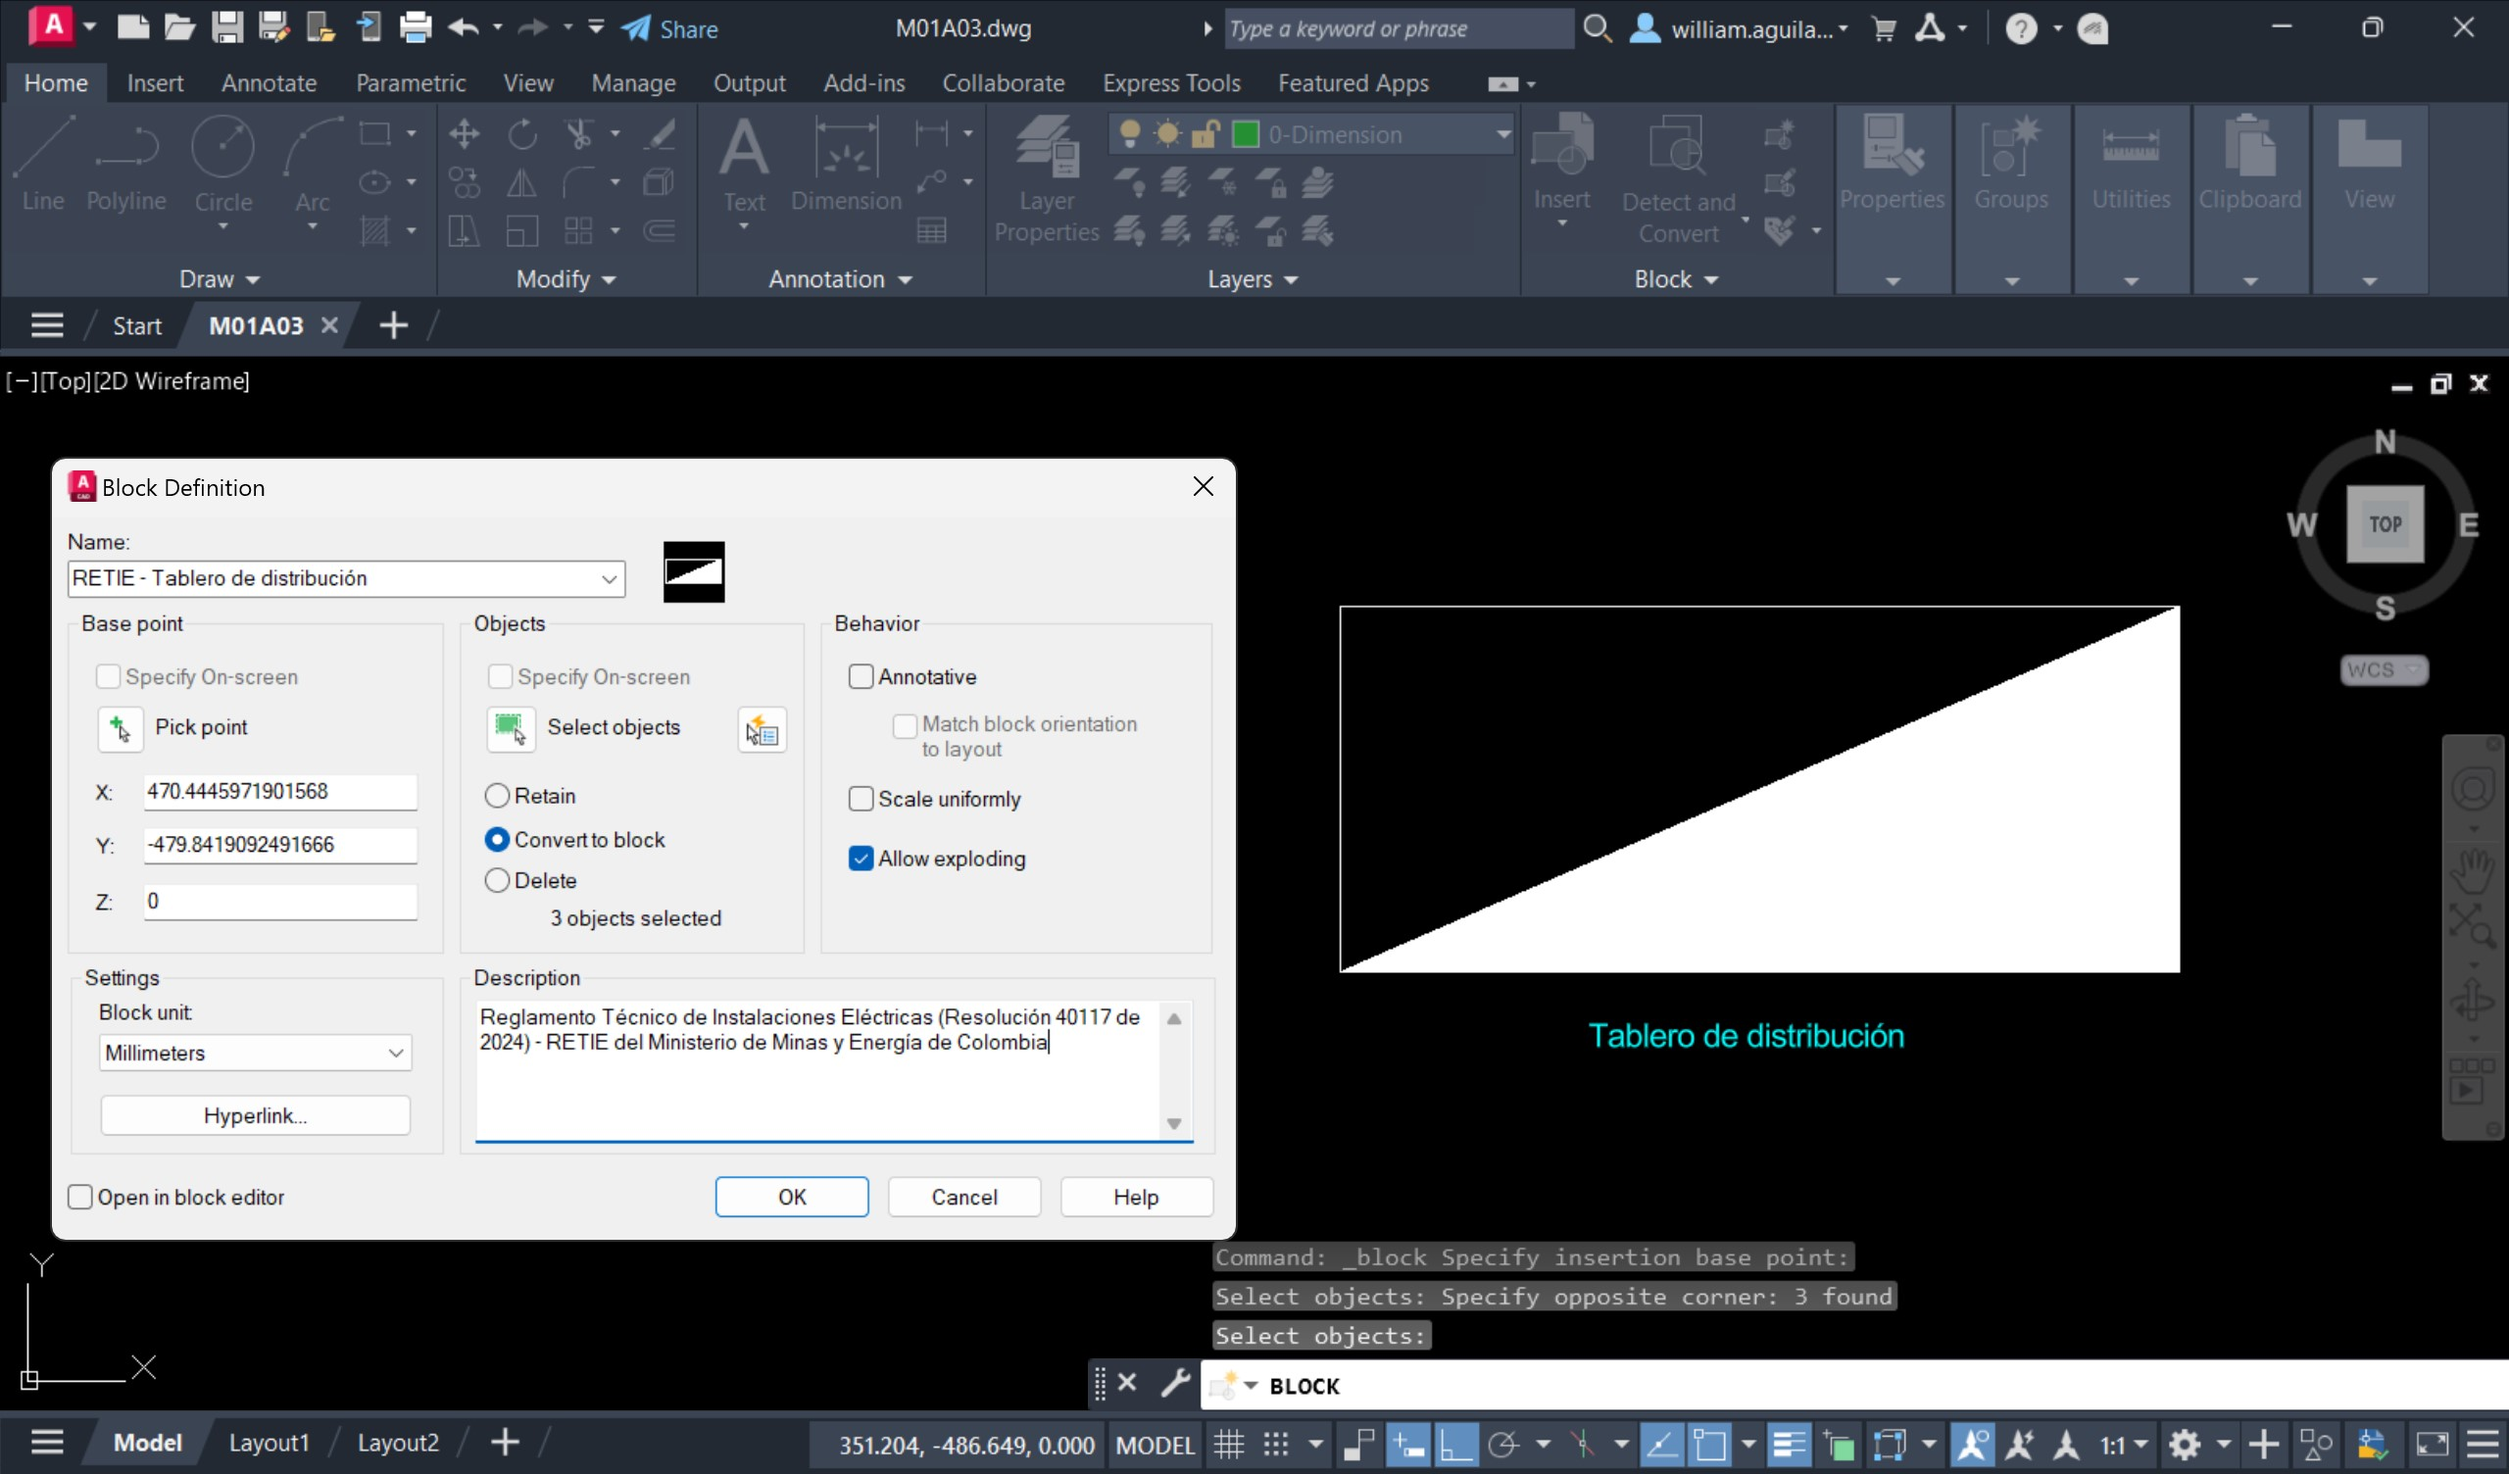
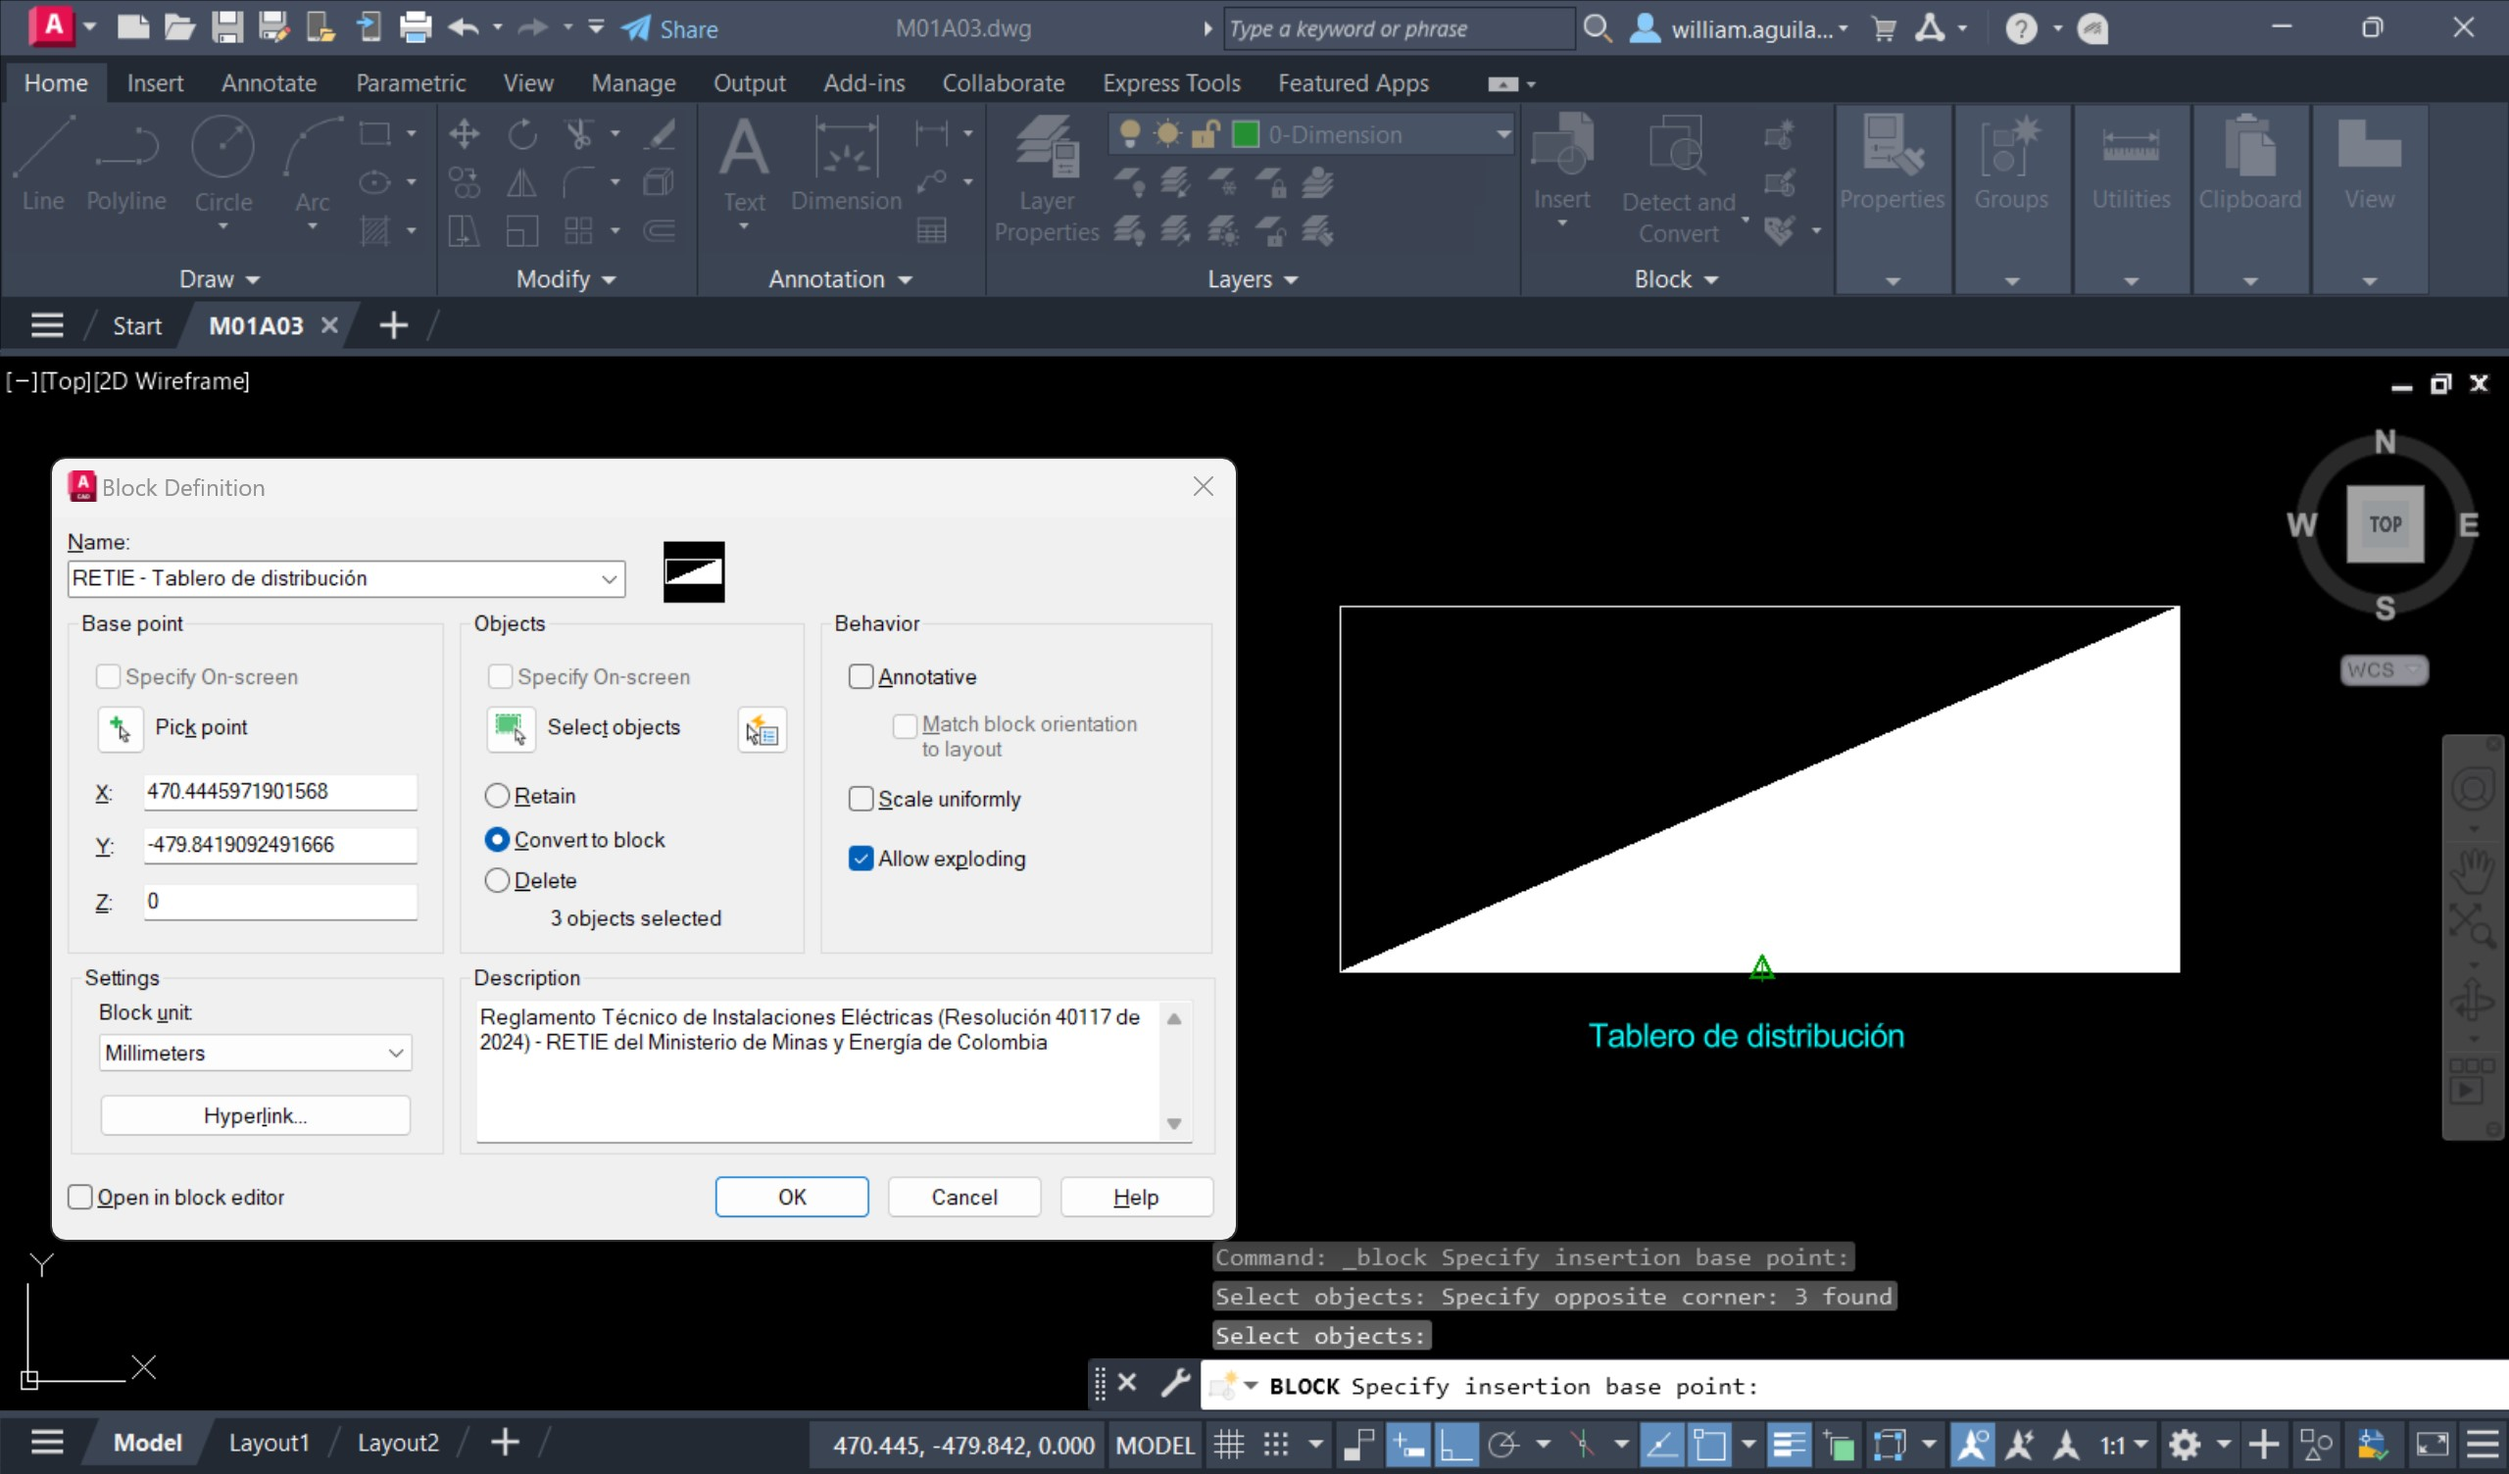
General update.

diff --git a/activity/M01A03/Readme.md b/activity/M01A03/Readme.md
@@ -191,21 +191,51 @@ C
 
 ### 2.2. Para símbolo eléctrico extensible
 
-Creemos ahorra un bloque dinámico para el tablero de distribución eléctrica definido en el RETIE, este símbolo debe ser dinámicamente alineado y alargado.
+Creemos ahorra un bloque dinámico para el tablero de distribución eléctrica definido en el RETIE, este símbolo debe ser dinámicamente alineado,  alargado y ensanchado.
 
 <div align="center"><img src="graph/RETIE_SimboloElectricoTableroDistribucion.jpg" alt="R.DAPC" width="15%" border="0" /></div>
 
 > Las dimensiones de un tablero de distribución eléctrica varían significativamente dependiendo de su capacidad y aplicación, pero generalmente se miden en altura, ancho y profundidad. Los tableros más comunes para uso residencial pueden tener dimensiones desde 225mm x 256mm x 98mm (para 8 polos) hasta 340mm x 590mm x 90mm (para 36 polos). Los tableros más grandes, como los trifásicos, pueden alcanzar dimensiones de 280mm x 885mm. (Dimensiones expresadas en largo x alto x ancho). [^1]
 
-1. Creemos el elemento en estático en AutoCAD de 225x98mm.
+1. Creemos el elemento estático en AutoCAD de 225x98mm.
 
 <div align="center"><img src="graph/AutoCAD_SimboloElectricoTableroDistribucion.jpg" alt="R.DAPC" width="100%" border="0" /></div>
 
-2. Cree el bloque
+2. Cree el bloque estático definiendo como punto central el punto medio inferior y en milímetros.
 
 <div align="center"><img src="graph/AutoCAD_SimboloElectricoTableroDistribucion1.jpg" alt="R.DAPC" width="100%" border="0" /></div>
 
-3. 
+3. Ingrese al editor de bloque o _Block Edit_ y asigne el parámetro _Aligment_ tal como lo realizamos en el símbolo eléctrico anaterior.
+
+<div align="center"><img src="graph/AutoCAD_SimboloElectricoTableroDistribucion2.jpg" alt="R.DAPC" width="100%" border="0" /></div>
+
+4. Ahora asigne el parámetro _Linear_ asignando primero la esquina inferior izquierda y luego la inferior derecha para definir su distancia (Distance1). 
+
+<div align="center"><img src="graph/AutoCAD_SimboloElectricoTableroDistribucion3.jpg" alt="R.DAPC" width="100%" border="0" /></div>
+
+5. Seleccione el parámetro y con el comando **PR** o **PROPERTIES**, cambie el nombre a _Largo_.
+
+<div align="center"><img src="graph/AutoCAD_SimboloElectricoTableroDistribucion4.jpg" alt="R.DAPC" width="100%" border="0" /></div>
+
+6. En el panel de edición de bloques, defina en _Actions_ la acción de estiramiento o _Stretch_, seleccione el parámetro _Largo_ y defina el punto asociado a la acción de estiramiento (equis de color rojo) correspondiente a la esquina inferior derecha del bloque.
+
+<div align="center"><img src="graph/AutoCAD_SimboloElectricoTableroDistribucion5.jpg" alt="R.DAPC" width="100%" border="0" /></div>
+
+7. Ahora el _Command_ solicita se cree un marco de estiramiento, que para el caso del tablero, corresponderá solo al lado derecho del bloque y luego solicitará se seleccionen los objetos a estirar dentro del marco seleccionado. Presione <kbd>enter</kbd> para finalizar la creación de esta acción.
+
+<div align="center"><img src="graph/AutoCAD_SimboloElectricoTableroDistribucion6.jpg" alt="R.DAPC" width="100%" border="0" /></div>
+
+8. En la parte inferior derecha del bloque, aparecerá ahora un ícono con la acción de estiramiento.
+
+<div align="center"><img src="graph/AutoCAD_SimboloElectricoTableroDistribucion7.jpg" alt="R.DAPC" width="100%" border="0" /></div>
+
+9. Cierre el editor de bloques y guarde los cambios. Inserte el bloque, selecciónelo y compruebe su funcionamiento estirando y alineando a una copia del muro creado.
+
+<div align="center"><img src="graph/AutoCAD_SimboloElectricoTableroDistribucion8.jpg" alt="R.DAPC" width="100%" border="0" /></div>
+
+10. 
+
+
 
 
 

diff --git a/file/cad/block/Readme.md b/file/cad/block/Readme.md
@@ -7,3 +7,4 @@
 * [BloquesElectricosMexico.dwg / Bloques de símbolos eléctricos](https://www.bibliocad.com/es/biblioteca/archivo-simbologia-electrica-basica_247216/)
 * [BloquesElectricosBolivia.dwg / Bloques de símbolos eléctricos](https://www.bibliocad.com/es/biblioteca/simbologia-de-instalaciones-electricas_131039/)
 * [MotorElectricoWeg20HP.dwg](https://www.bibliocad.com/es/biblioteca/motores-electricos-de-diseno-facil_130618/)
+* [ElectricalSymbol](https://www.bibliocad.com/es/biblioteca/electrical-symbols-legend-abbreviations_125275/)
